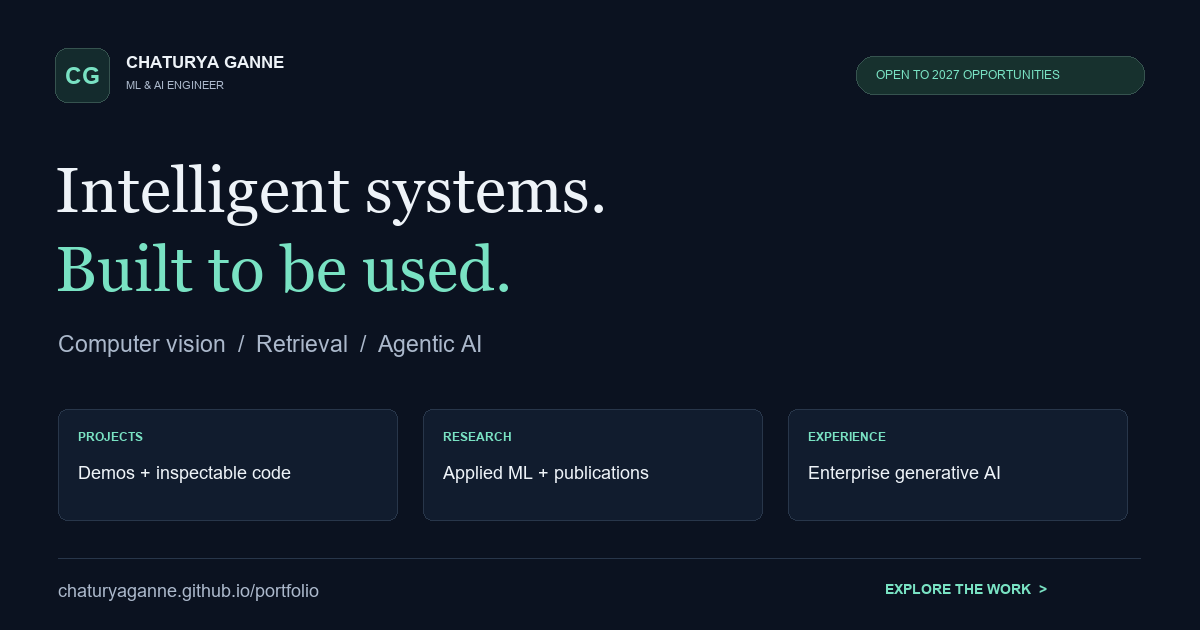
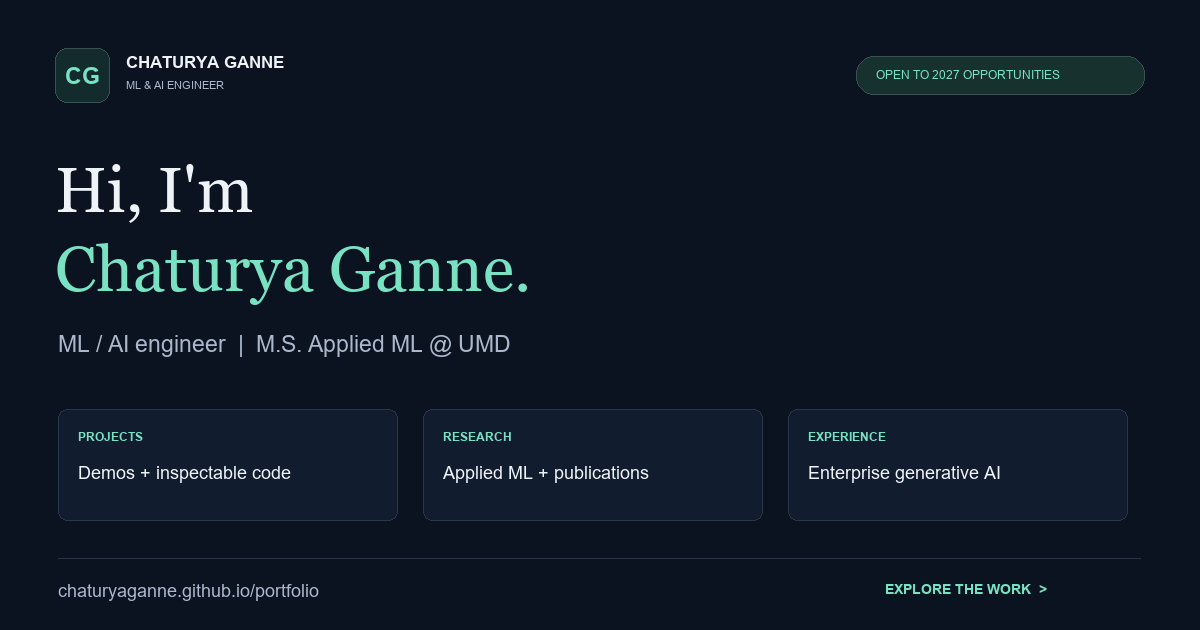
Introduce Chaturya personally in portfolio hero
Lead with name, ML/AI background, UMD studies and Daiichi Sankyo experience. Replace generic workflow panel with a personal background snapshot and update social preview.

diff --git a/index.html b/index.html
@@ -1,5 +1,5 @@
-<!doctype html><html lang="en"><head><meta charset="utf-8"><meta name="viewport" content="width=device-width,initial-scale=1"><title>Chaturya Ganne | ML & AI Engineer</title><meta name="description" content="Explore Chaturya Ganne's ML and AI projects, research, and engineering experience. Computer vision, RAG, agentic AI, and applied optimization. Open to 2027 opportunities."><meta name="author" content="Chaturya Ganne"><meta name="theme-color" content="#0b1220"><link rel="canonical" href="https://chaturyaganne.github.io/portfolio/"><meta property="og:type" content="website"><meta property="og:title" content="Chaturya Ganne | ML & AI Engineer"><meta property="og:description" content="From research to working AI systems. Explore projects, publications, and engineering experience."><meta property="og:url" content="https://chaturyaganne.github.io/portfolio/"><meta property="og:site_name" content="Chaturya Ganne — Portfolio"><meta property="og:image" content="https://chaturyaganne.github.io/portfolio/personal/share-card.png"><meta property="og:image:width" content="1200"><meta property="og:image:height" content="630"><meta property="og:image:alt" content="Chaturya Ganne. ML and AI engineer. Projects, research and engineering experience."><meta name="twitter:card" content="summary_large_image"><meta name="twitter:title" content="Chaturya Ganne | ML & AI Engineer"><meta name="twitter:description" content="Projects, research, and experience building AI systems."><meta name="twitter:image" content="https://chaturyaganne.github.io/portfolio/personal/share-card.png"><link rel="icon" href="personal/favicon.svg" type="image/svg+xml"><link rel="stylesheet" href="personal/site.css"><script type="application/ld+json">{"@context":"https://schema.org","@type":"Person","name":"Chaturya Ganne","url":"https://chaturyaganne.github.io/portfolio/","jobTitle":"ML/AI Engineer","sameAs":["https://github.com/chaturyaganne","https://www.linkedin.com/in/chaturya-ganne-6b85a7178/","https://scholar.google.com/citations?hl=en&user=SAiN8-oAAAAJ"],"knowsAbout":["Machine Learning","Computer Vision","Retrieval-Augmented Generation","Generative AI"]}</script><script src="personal/site.js" defer></script></head><body><a class="skip-link" href="#main">Skip to content</a><header class="site-header"><div class="container nav-shell"><a class="brand" href="#top" aria-label="Chaturya Ganne, home"><span class="brand-mark">CG<span>↗</span></span><span>Chaturya Ganne<small>ML & AI ENGINEER</small></span></a><button class="menu-toggle" aria-expanded="false" aria-controls="primary-nav" hidden>Menu <span aria-hidden="true">+</span></button><nav id="primary-nav" aria-label="Main navigation"><a href="#projects">Work</a><a href="#experience">Experience</a><a href="#publications">Research</a><a href="#contact" class="nav-contact">Let's connect ↗</a></nav></div></header><main id="main" tabindex="-1">
-<div class="container"><section class="hero" id="top" aria-labelledby="intro-title"><div class="hero-copy"><div class="availability"><span aria-hidden="true"></span>OPEN TO INTERNSHIPS & FULL-TIME ROLES IN 2027</div><h1 id="intro-title">Intelligent systems.<br><em>Built to be used.</em></h1><p class="hero-intro">I'm <strong>Chaturya Ganne</strong>, an ML/AI engineer and Applied Machine Learning master's student at the University of Maryland. I work across computer vision, retrieval, and agentic AI.</p><div class="hero-actions"><a class="button primary" href="#projects">Explore my work <span aria-hidden="true">↗</span></a><a class="button secondary" href="mailto:cganne@umd.edu">Let's talk</a></div><div class="hero-socials"><a href="https://github.com/chaturyaganne">GitHub ↗</a><a href="https://www.linkedin.com/in/chaturya-ganne-6b85a7178/">LinkedIn ↗</a><a href="https://scholar.google.com/citations?hl=en&user=SAiN8-oAAAAJ">Google Scholar ↗</a></div></div><aside class="focus-panel" aria-labelledby="focus-title"><div class="panel-top"><span>ENGINEERING FOCUS</span><span class="panel-symbol" aria-hidden="true">✳</span></div><h2 id="focus-title">Connect the question<br>to a working system.</h2><p>An illustrative retrieval workflow</p><ol class="system-flow"><li><span>01</span><div><strong>Retrieve</strong><small>Find relevant context</small></div><b aria-hidden="true">↓</b></li><li><span>02</span><div><strong>Reason & generate</strong><small>Build on retrieved evidence</small></div><b aria-hidden="true">↓</b></li><li><span>03</span><div><strong>Evaluate & iterate</strong><small>Inspect quality and trade-offs</small></div><b aria-hidden="true">↗</b></li></ol><div class="panel-bottom"><span>RESEARCH ↔ ENGINEERING</span><span>Always a work in progress.</span></div></aside></section>
+<!doctype html><html lang="en"><head><meta charset="utf-8"><meta name="viewport" content="width=device-width,initial-scale=1"><title>Chaturya Ganne | ML & AI Engineer</title><meta name="description" content="Explore Chaturya Ganne's ML and AI projects, research, and engineering experience. Computer vision, RAG, agentic AI, and applied optimization. Open to 2027 opportunities."><meta name="author" content="Chaturya Ganne"><meta name="theme-color" content="#0b1220"><link rel="canonical" href="https://chaturyaganne.github.io/portfolio/"><meta property="og:type" content="website"><meta property="og:title" content="Chaturya Ganne | ML & AI Engineer"><meta property="og:description" content="Meet Chaturya Ganne, an ML/AI engineer and Applied Machine Learning master's student at the University of Maryland. Explore my projects, research, and experience."><meta property="og:url" content="https://chaturyaganne.github.io/portfolio/"><meta property="og:site_name" content="Chaturya Ganne — Portfolio"><meta property="og:image" content="https://chaturyaganne.github.io/portfolio/personal/share-card.png"><meta property="og:image:width" content="1200"><meta property="og:image:height" content="630"><meta property="og:image:alt" content="Chaturya Ganne. ML and AI engineer. Projects, research and engineering experience."><meta name="twitter:card" content="summary_large_image"><meta name="twitter:title" content="Chaturya Ganne | ML & AI Engineer"><meta name="twitter:description" content="Projects, research, and experience building AI systems."><meta name="twitter:image" content="https://chaturyaganne.github.io/portfolio/personal/share-card.png"><link rel="icon" href="personal/favicon.svg" type="image/svg+xml"><link rel="stylesheet" href="personal/site.css"><script type="application/ld+json">{"@context":"https://schema.org","@type":"Person","name":"Chaturya Ganne","url":"https://chaturyaganne.github.io/portfolio/","jobTitle":"ML/AI Engineer","sameAs":["https://github.com/chaturyaganne","https://www.linkedin.com/in/chaturya-ganne-6b85a7178/","https://scholar.google.com/citations?hl=en&user=SAiN8-oAAAAJ"],"knowsAbout":["Machine Learning","Computer Vision","Retrieval-Augmented Generation","Generative AI"]}</script><script src="personal/site.js" defer></script></head><body><a class="skip-link" href="#main">Skip to content</a><header class="site-header"><div class="container nav-shell"><a class="brand" href="#top" aria-label="Chaturya Ganne, home"><span class="brand-mark">CG<span>↗</span></span><span>Chaturya Ganne<small>ML & AI ENGINEER</small></span></a><button class="menu-toggle" aria-expanded="false" aria-controls="primary-nav" hidden>Menu <span aria-hidden="true">+</span></button><nav id="primary-nav" aria-label="Main navigation"><a href="#projects">Work</a><a href="#experience">Experience</a><a href="#publications">Research</a><a href="#contact" class="nav-contact">Let's connect ↗</a></nav></div></header><main id="main" tabindex="-1">
+<div class="container"><section class="hero" id="top" aria-labelledby="intro-title"><div class="hero-copy"><div class="availability"><span aria-hidden="true"></span>OPEN TO INTERNSHIPS & FULL-TIME ROLES IN 2027</div><h1 id="intro-title">Hi, I'm<br><em>Chaturya Ganne.</em></h1><p class="hero-intro">I'm an <strong>ML/AI engineer</strong> pursuing my M.S. in Applied Machine Learning at the <strong>University of Maryland</strong>. At Daiichi Sankyo, I work on generative AI and enterprise retrieval. My projects explore computer vision, adaptive models, and applied optimization.</p><div class="hero-actions"><a class="button primary" href="#projects">Explore my work <span aria-hidden="true">↗</span></a><a class="button secondary" href="mailto:cganne@umd.edu">Let's talk</a></div><div class="hero-socials"><a href="https://github.com/chaturyaganne">GitHub ↗</a><a href="https://www.linkedin.com/in/chaturya-ganne-6b85a7178/">LinkedIn ↗</a><a href="https://scholar.google.com/citations?hl=en&user=SAiN8-oAAAAJ">Google Scholar ↗</a></div></div><aside class="focus-panel" aria-labelledby="focus-title"><div class="panel-top"><span>ME, AT A GLANCE</span><span class="panel-symbol" aria-hidden="true">✳</span></div><h2 id="focus-title">Learning deeply.<br>Building thoughtfully.</h2><p>A snapshot of my background</p><ol class="system-flow"><li><span>01</span><div><strong>Applied Machine Learning</strong><small>M.S. candidate at the University of Maryland</small></div><b aria-hidden="true">↓</b></li><li><span>02</span><div><strong>Enterprise AI</strong><small>Generative AI & retrieval at Daiichi Sankyo</small></div><b aria-hidden="true">↓</b></li><li><span>03</span><div><strong>Research & projects</strong><small>Computer vision, optimization & time series</small></div><b aria-hidden="true">↗</b></li></ol><div class="panel-bottom"><span>RESEARCH ↔ ENGINEERING</span><span>Always a work in progress.</span></div></aside></section>
 <div class="context-strip"><a href="#education"><span>ACADEMIC FOUNDATION</span><strong>Applied ML @ UMD</strong><small>M.S. candidate · GPA 4.0</small></a><a href="#experience"><span>INDUSTRY EXPERIENCE</span><strong>Enterprise generative AI</strong><small>Daiichi Sankyo · Internship</small></a><a href="#publications"><span>RESEARCH</span><strong>5 publications</strong><small>Computer vision & time-series analysis</small></a></div>
 <section id="projects" class="portfolio-section" aria-labelledby="work-title"><div class="section-heading"><div><span class="eyebrow">01 / SELECTED WORK</span><h2 id="work-title">Explore what I build.</h2></div><p>Working demos, inspectable code, and the decisions behind them.</p></div><div class="filter-bar" role="group" aria-label="Filter selected projects" hidden><button data-filter="all" aria-pressed="true">All projects</button><button data-filter="ml" aria-pressed="false">ML & AI</button><button data-filter="ux" aria-pressed="false">UX exploration</button><span id="filter-count" role="status" aria-live="polite">4 projects</span></div><div class="selected-grid"><article class="work-card" data-category="ml" id="project-medical"><div class="project-art art-medical" aria-hidden="true"><div class="diagram-label">ILLUSTRATIVE MODEL FLOW</div><div class="model-flow"><span>X-ray input</span><i>→</i><span>ResNet50</span><i>→</i><span>Grad-CAM</span></div><div class="heatmap"><span>Prediction</span><span>Explanation</span><span>Report</span></div></div><div class="work-body"><div class="work-kicker"><span>COMPUTER VISION / HEALTHCARE</span><span>01</span></div><h3>AI Medical Diagnosis Tool</h3><p class="work-description">A chest X-ray research prototype that connects image classification, visual explanations, and generated reports.</p><p class="work-detail">ResNet50 classifies images; Grad-CAM surfaces model attention; LLaMA supports report generation.</p><ul class="tech-stack" aria-label="Technologies and focus"><li>PyTorch</li><li>Grad-CAM</li><li>LLaMA</li></ul><div class="work-links"><a href="https://chaturyaganne.github.io/medical_diaganois_tool/">Explore demo <span aria-hidden="true">↗</span></a><a href="https://github.com/chaturyaganne/medical_diaganois_tool">View code <span aria-hidden="true">↗</span></a></div><p class="work-note">Research prototype; not a clinical diagnostic service.</p></div></article><article class="work-card" data-category="ml" id="project-adaptalloc"><div class="project-art art-adaptalloc" aria-hidden="true"><div class="diagram-label">ILLUSTRATIVE ROUTING LOGIC</div><div class="routing"><span>Video frame</span><i>↓</i><strong>Adaptive policy</strong><div><span>YOLOv8<small>Speed / energy</small></span><span>RT-DETR<small>Detection quality</small></span></div></div></div><div class="work-body"><div class="work-kicker"><span>REINFORCEMENT LEARNING / SYSTEMS</span><span>02</span></div><h3>AdaptAlloc</h3><p class="work-description">Choosing an object detector is a trade-off. This project makes that decision frame by frame.</p><p class="work-detail">A REINFORCE policy routes video frames between YOLOv8 and RT-DETR using scene complexity and detection uncertainty.</p><ul class="tech-stack" aria-label="Technologies and focus"><li>REINFORCE</li><li>YOLOv8</li><li>RT-DETR</li></ul><div class="work-links"><a href="https://github.com/chaturyaganne/ADAPTIVE_ALLOC">Explore repository <span aria-hidden="true">↗</span></a></div><p class="work-note">Includes a Streamlit dashboard for comparing routing policies.</p></div></article><article class="work-card" data-category="ml" id="project-radiation"><div class="project-art art-radiation" aria-hidden="true"><div class="diagram-label">ILLUSTRATIVE OPTIMIZATION FLOW</div><div class="constraint-visual"><div><span>Dose constraints</span><span>Coverage objective</span><span>Regularization</span></div><strong>Convex<br>program</strong><b>→</b><span>Candidate<br>fluence plan</span></div></div><div class="work-body"><div class="work-kicker"><span>CONVEX OPTIMIZATION / RESEARCH</span><span>03</span></div><h3>Radiation Treatment Planner</h3><p class="work-description">Exploring how mathematical constraints shape a radiation treatment plan.</p><p class="work-detail">A CVXPY formulation on PortPy data balances dose constraints with a spectral regularizer for fluence optimization.</p><ul class="tech-stack" aria-label="Technologies and focus"><li>CVXPY</li><li>PortPy</li><li>Optimization</li></ul><div class="work-links"><a href="https://github.com/chaturyaganne/Radiation_Treatment_Planning_Optimiser">Explore repository <span aria-hidden="true">↗</span></a></div><p class="work-note">Research implementation; not a treatment-planning service.</p></div></article><article class="work-card" data-category="ux" id="project-encore"><div class="project-art art-encore" aria-hidden="true"><div class="diagram-label">INDEPENDENT UX CONCEPT</div><div class="encore-preview"><b>encore<span>✳</span></b><p>A great night.<br>A shared plan.</p><div><span>4 friends</span><span>$100 each</span><span>Clear view</span></div></div></div><div class="work-body"><div class="work-kicker"><span>UX EXPLORATION / INTERACTION DESIGN</span><span>04</span></div><h3>Encore</h3><p class="work-description">One night out. Everyone on the same page. A group-first ticket-planning concept.</p><p class="work-detail">An interactive journey from shared needs to seat comparison, exact pricing, and a plan the group can share.</p><ul class="tech-stack" aria-label="Technologies and focus"><li>UX case study</li><li>Prototype</li><li>Design system</li></ul><div class="work-links"><a href="encore/">View separate project <span aria-hidden="true">↗</span></a><a href="encore/prototype.html">Try prototype <span aria-hidden="true">↗</span></a></div><p class="work-note">Fictional inventory. User research is planned, not completed.</p></div></article></div><details class="archive"><summary>More engineering work & technical detail <span aria-hidden="true">+</span></summary><section id="project-archive">
         <div class="section-header">
